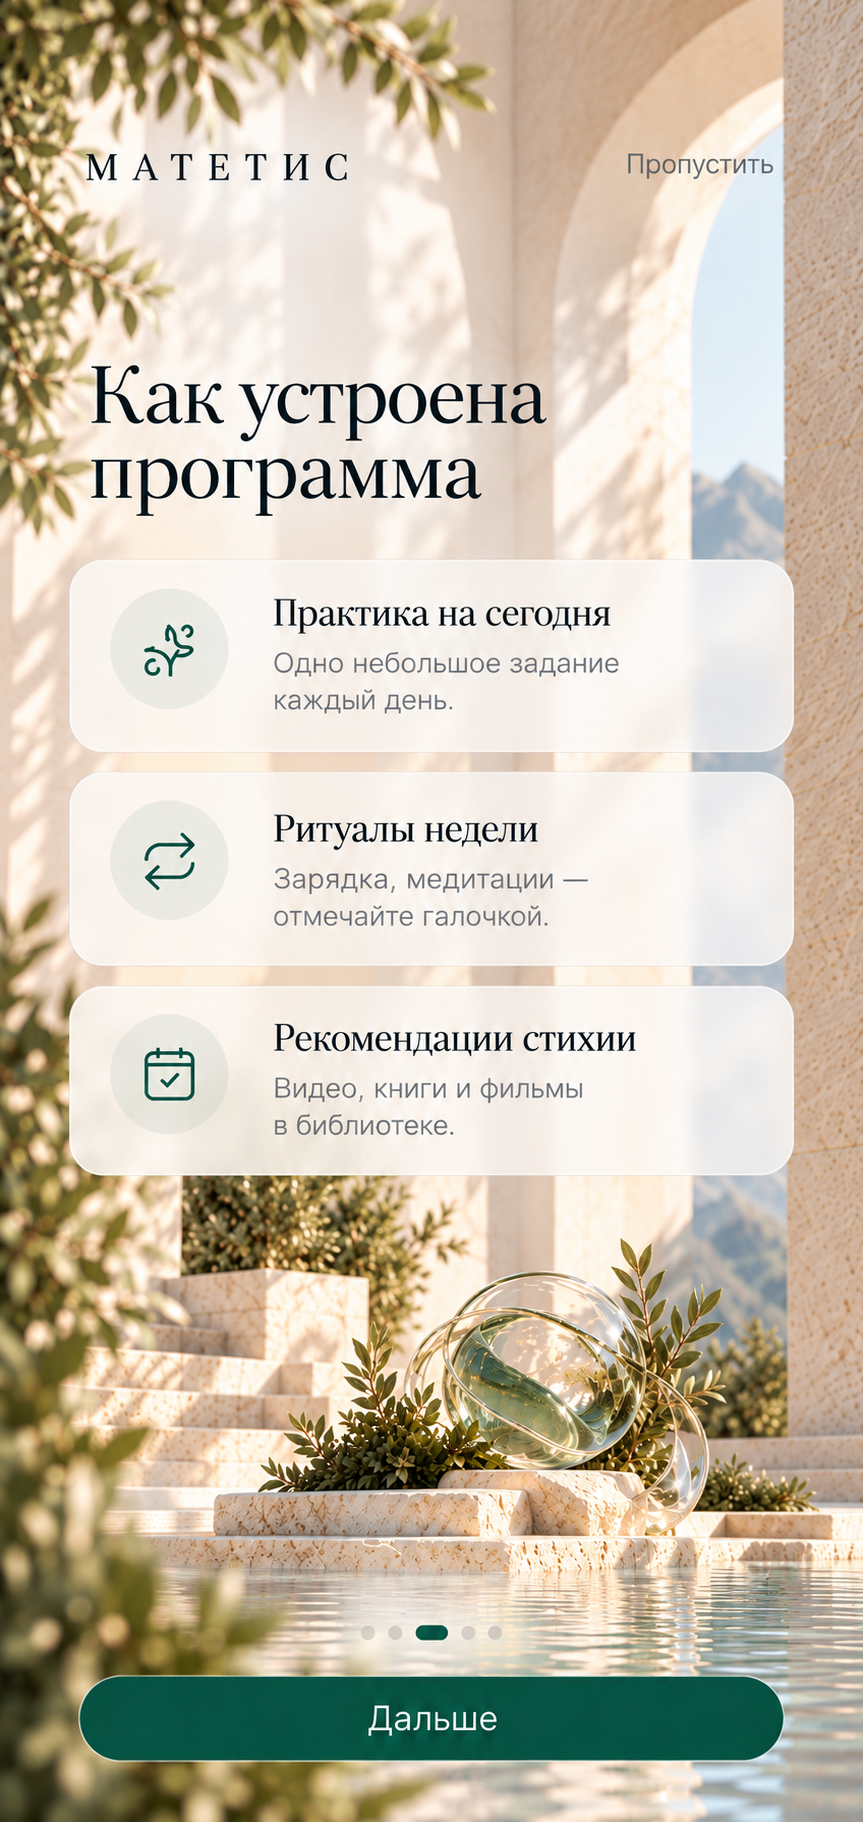
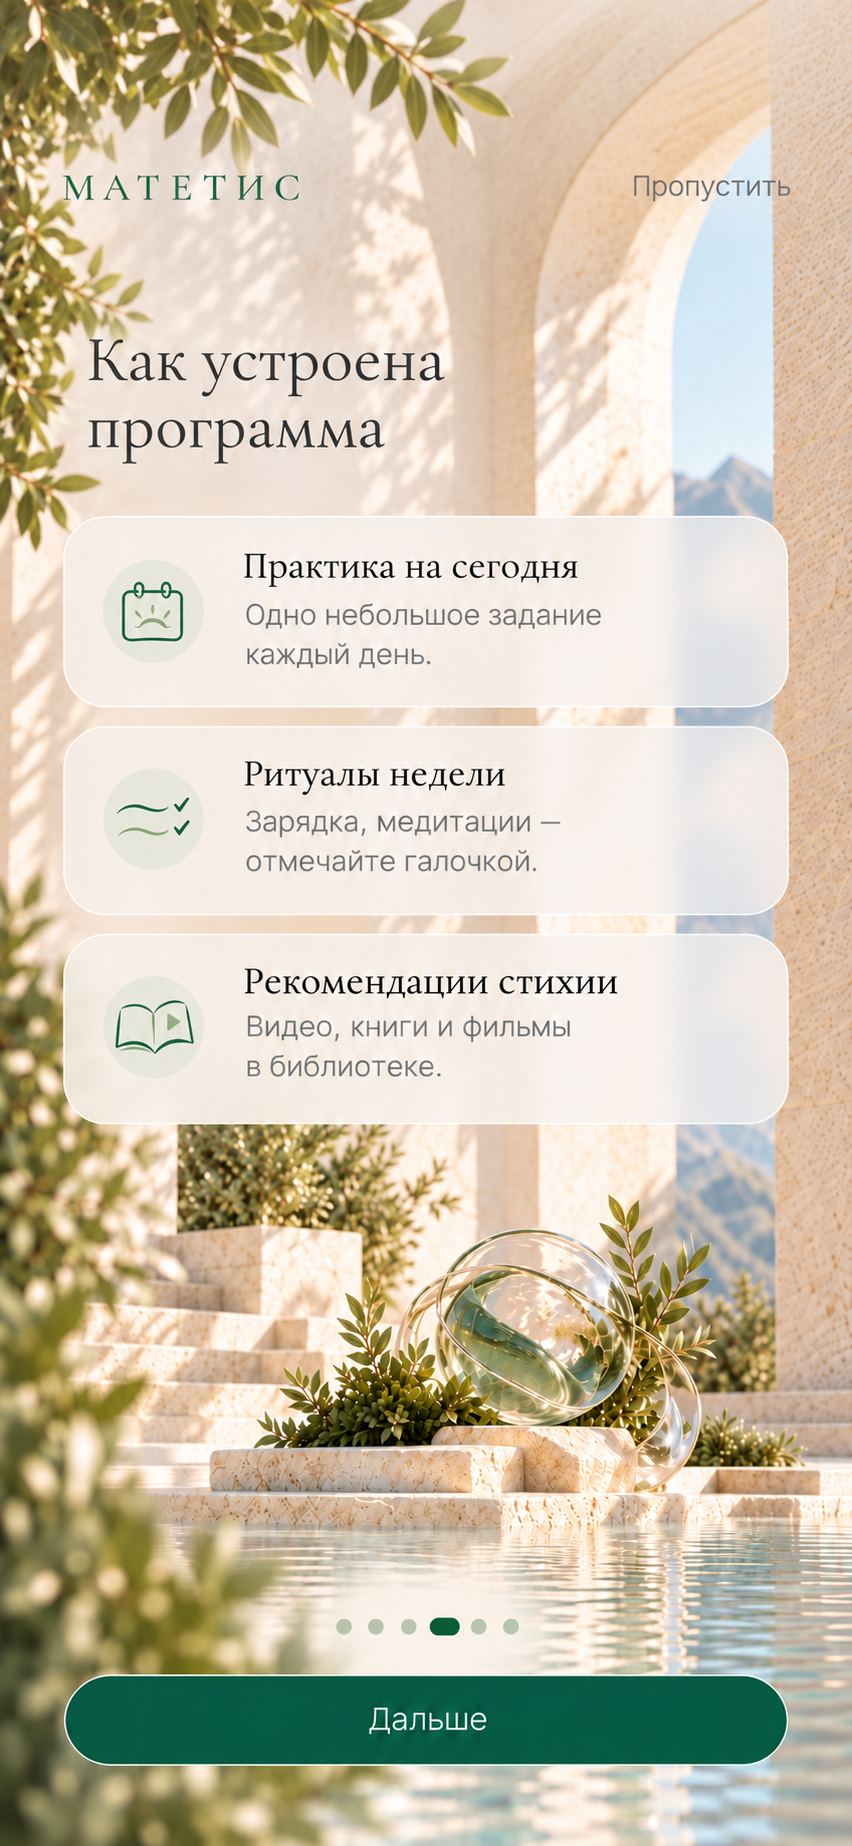
Онбординг: на экране программы прежние тексты практик, третий пункт – «Библиотека». Подключён фон «Вместе».

diff --git a/src/views/onboarding/ui/onboarding-page.tsx b/src/views/onboarding/ui/onboarding-page.tsx
@@ -2,7 +2,17 @@
 
 import { useRouter } from "next/navigation";
 import { useEffect, useRef, useState, type ComponentType, type MouseEvent, type ReactNode, type TouchEvent } from "react";
-import { CalendarCheck, ExternalLink, Heart, Repeat, Share, SquarePlus, Sparkles, UserPlus, Users } from "lucide-react";
+import {
+  BookOpen,
+  CalendarCheck,
+  ExternalLink,
+  HandHeart,
+  Infinity as InfinityIcon,
+  Share,
+  SquarePlus,
+  UserPlus,
+  WavesHorizontal,
+} from "lucide-react";
 
 import { ElementBadge, getElements } from "@/entities/element";
 import { progressActions } from "@/entities/progress";
@@ -59,18 +69,18 @@ function ElementsList() {
 
 const togetherParts = [
   { icon: UserPlus, title: "Друзья", text: "Добавляйте людей, которые тоже проходят программу." },
-  { icon: Users, title: "Совместная практика", text: "Одна практика на двоих. Каждый проходит её в своё время." },
-  { icon: Heart, title: "Поддержка", text: "В ленте видны важные шаги друзей: их можно поддержать." },
+  { icon: InfinityIcon, title: "Совместная практика", text: "Одна практика на двоих. Каждый проходит её в своё время." },
+  { icon: HandHeart, title: "Поддержка", text: "В ленте видны важные шаги друзей: их можно поддержать." },
 ];
 
 const programParts = [
-  { icon: Sparkles, title: "Практика на сегодня", text: "Набор коротких практик и медитаций на каждый день." },
+  { icon: CalendarCheck, title: "Практика на сегодня", text: "Набор коротких практик и медитаций на каждый день." },
   {
-    icon: Repeat,
+    icon: WavesHorizontal,
     title: "Ритуалы недели",
     text: "Зарядка, медитации, которые можно выполнять в удобное время среди недели.",
   },
-  { icon: CalendarCheck, title: "Осознания Стихии", text: "Индивидуальный набор мудростей исходя из вашего типа." },
+  { icon: BookOpen, title: "Библиотека", text: "Видео, книги и фильмы в библиотеке." },
 ];
 
 function IconCard({
@@ -149,9 +159,8 @@ const slides: Slide[] = [
     ),
   },
   {
-    // Фон вкладки «Вместе» – временный, пока нет отдельной картинки онбординга.
     variant: "page",
-    background: "08_together",
+    background: "02_4_together",
     title: "Путь можно пройти вместе",
     body: (
       <div className="space-y-2">
@@ -223,7 +232,7 @@ function InstallScreen() {
   return (
     <ScreenLayout
       variant="hero"
-      background="02_4_onboard"
+      background="02_5_onboard"
       narrow
       title="Установите приложение"
       subtitle={
@@ -317,7 +326,7 @@ export function OnboardingPage() {
 
   // Картинки следующих экранов грузим заранее, пока человек читает первый.
   useEffect(() => {
-    for (const background of [...slides.map((slide) => slide.background), "02_4_onboard" as const]) {
+    for (const background of [...slides.map((slide) => slide.background), "02_5_onboard" as const]) {
       new Image().src = backgroundSrc(background);
     }
   }, []);

diff --git a/src/widgets/screen-layout/ui/screen-layout.tsx b/src/widgets/screen-layout/ui/screen-layout.tsx
@@ -5,7 +5,7 @@ import { createPortal } from "react-dom";
 
 import { typograph } from "@/shared/lib/typograph";
 import { cn } from "@/shared/lib/utils";
-import { Logo } from "@/shared/ui/logo";
+import { AppLogo } from "./app-logo";
 import { StepDots } from "@/shared/ui/step-dots";
 
 /**
@@ -18,7 +18,8 @@ export type ScreenBackground =
   | "02_1_onboard"
   | "02_2_onboard"
   | "02_3_onboard"
-  | "02_4_onboard"
+  | "02_4_together"
+  | "02_5_onboard"
   | "03_1_test"
   | "03_name"
   | "03_birth"
@@ -74,6 +75,8 @@ const keepImageTop: ScreenBackground[] = ["02_1_onboard", "02_2_onboard"];
  */
 const pageImageY: Partial<Record<ScreenBackground, string>> = {
   "02_3_onboard": "60%",
+  // Лента ниже середины: между карточками и кнопкой, арки остаются у заголовка.
+  "02_4_together": "72%",
 };
 
 /**
@@ -234,9 +237,9 @@ export function ScreenLayout({
   clearNav = false,
 }: ScreenLayoutProps) {
   const header = (
-    <header className="px-(--screen-gutter) pt-[calc(var(--safe-top)+var(--header-top))]">
+    <header className="relative z-20 px-(--screen-gutter) pt-[calc(var(--safe-top)+var(--header-top))]">
       <div className="flex h-(--header-height) items-center justify-between gap-4">
-        <Logo />
+        <AppLogo />
         {headerAction}
       </div>
     </header>

diff --git a/docs/plan.md b/docs/plan.md
@@ -11,7 +11,7 @@
 | 3 | Профиль и друзья | Найти человека, открыть его профиль, запрос в друзья, настройки публикации событий | Готов |
 | 4 | Чистовые экраны | Основа дизайна по `docs/design-guide.md`: шрифты, цвета, общие компоненты и единое расположение логотипа, заголовков и кнопок на всех экранах. Экраны входа, регистрации и профиля с друзьями по макетам из `design/screens/` с фонами из `design/backgrounds/`, подключённые к серверу. Остальные экраны верстаются в чатах своих этапов | Готов |
 | 5 | Тест и тип | Тест определяет тип, по дате рождения считается распределение по стихиям по методике Жанны. Результаты сохраняются за человеком | Готов |
-| 6 | Онбординг | Экраны знакомства с приложением: первый экран «Дорогой Матэтис!» (`02_0_matetis`), затем `02_1`–`02_4` и экран «Вместе» после «Как устроена программа». Фон этого экрана ждёт макет | Готов |
+| 6 | Онбординг | Экраны знакомства с приложением: первый экран «Дорогой Матэтис!» (`02_0_matetis`), затем `02_1`–`02_5`: экран «Вместе» после «Как устроена программа», установка приложения – последняя | Готов |
 | 7 | Программа и отметки | Админ наполняет программу «тип + стихия», человек видит её и отмечает выполнение. Сначала предварительная версия по текущим материалам, уточняется после звонка с Жанной | Ждёт итогов звонка с Жанной и макетов |
 | 8 | Доступ и подписка | Платный доступ: что открыто без оплаты, что закрыто. Оплата вне приложения, админ вручную открывает доступ человеку по почте или нику в Telegram. Упрощение регистрации: вход по коду из письма или через бота МАТЭТИС в Telegram, на выбор человека | Готов. На телефоне проверяем на этапе 13 |
 | 9 | Статистика профиля и персонаж | Личный прогресс. Персонаж-спутник вместо аватарки: растёт по мере выполнения практик в течение стихии. Бейджей стихий нет – вместо них развивается персонаж (решение от 11 ноября 2026) | Готов |

diff --git a/AGENTS.md b/AGENTS.md
@@ -17,6 +17,7 @@
 - Задачи для копирайтера записывай в [`docs/copywriter-brief.md`](docs/copywriter-brief.md) отдельным разделом.
 - Размеры, цвета и отступы интерфейса бери из [`docs/design-guide.md`](docs/design-guide.md), а не с картинок в `design/screens/`.
 - В `design/screens/` и `design/backgrounds/` лежат только актуальные макеты и фоны. Когда кладёшь новую версию, старую удаляй (она останется в истории Git) и обновляй `design/backgrounds/README.md`.
+- Если в новом макете тексты отличаются от текстов в приложении, сам их не меняй. Перечисли расхождения и предложи, какие оставить. Меняй после ответа.
 - Финальный дизайн ещё готовится. В первую очередь делай техническую основу, которую не придётся переделывать после макетов. Экраны прототипа не перестраивай под будущий дизайн заранее.
 - Перед предложением следующего шага проверь зависимости. Например, карточка человека в базе нужна до того, как регистрация в приложении начнёт сохранять имя и согласие.
 - Предлагай только ближайший шаг. Не расписывай большую последовательность задач.
